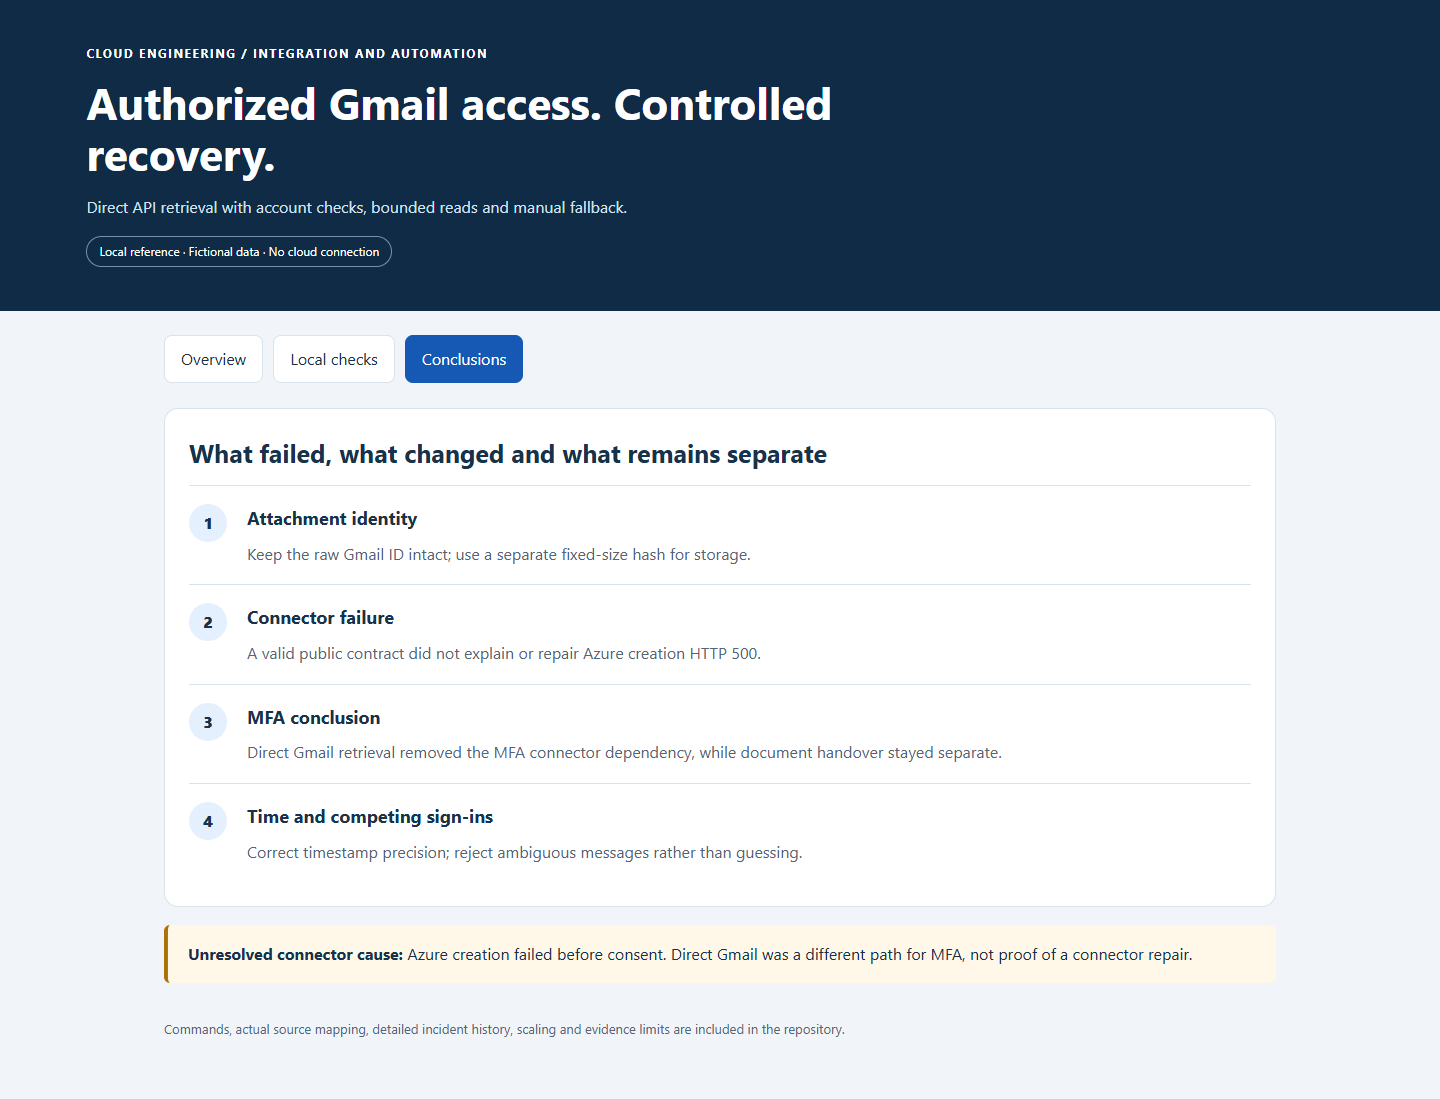
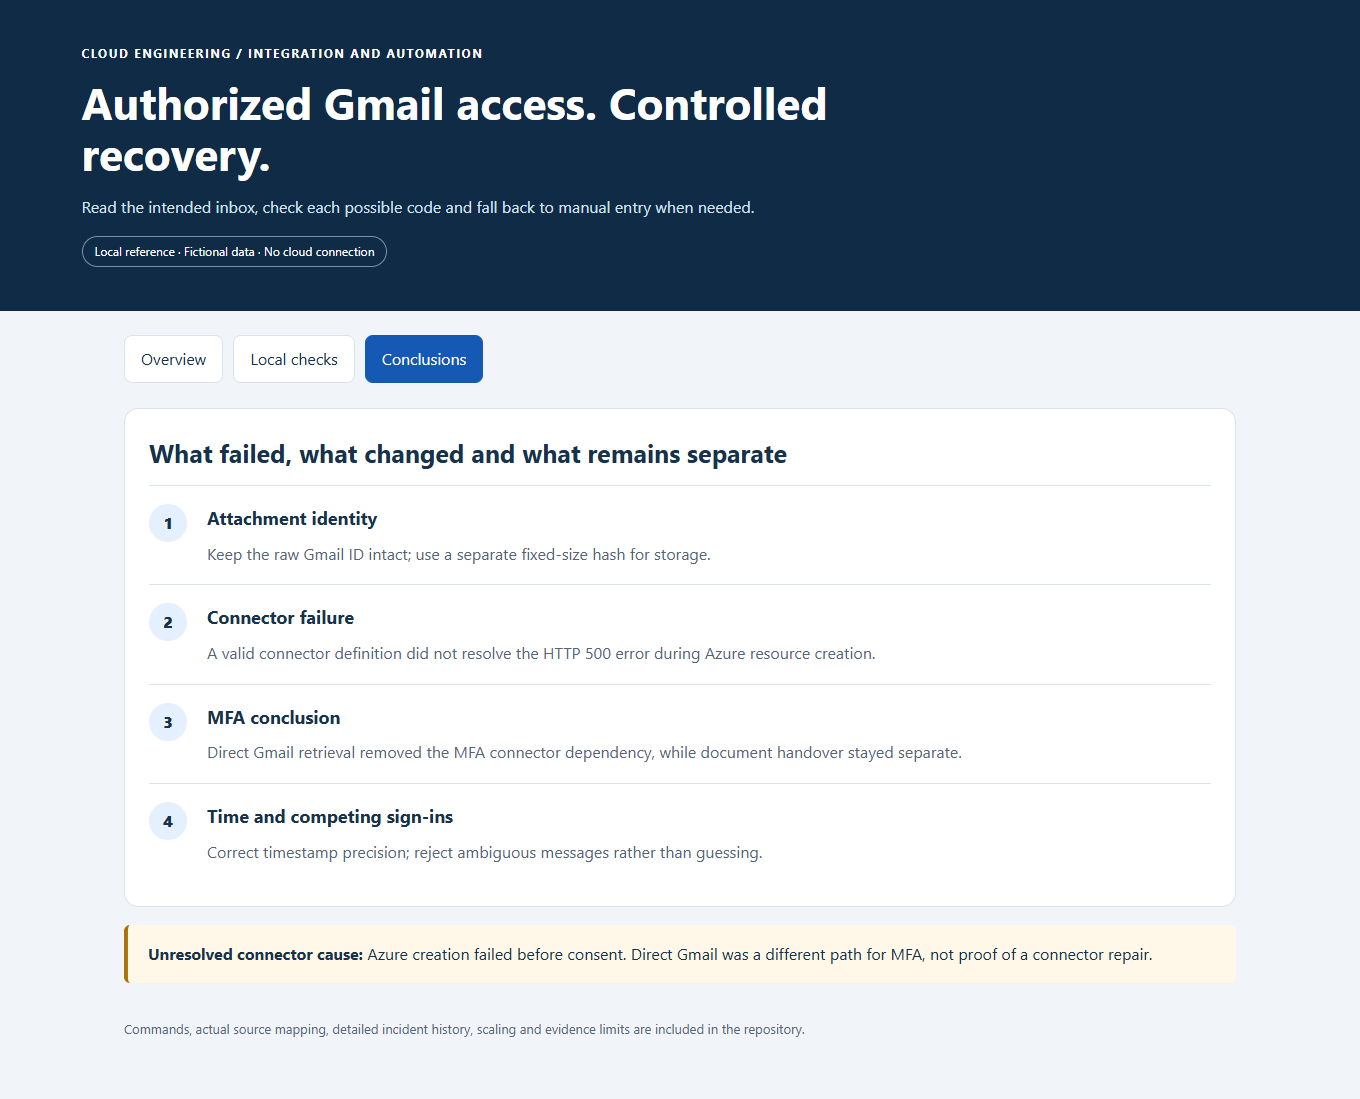
Simplify supporting guides and align preview text and screenshots

diff --git a/preview/index.html b/preview/index.html
@@ -1,10 +1,10 @@
 <!doctype html><html lang="en"><head><meta charset="utf-8"><meta name="viewport" content="width=device-width,initial-scale=1"><title>Authorized Gmail access. Controlled recovery.</title><style>
 :root{color-scheme:light;--navy:#102b46;--ink:#17324a;--muted:#536576;--line:#d8e3eb;--blue:#1559b4;--teal:#086b5c}*{box-sizing:border-box}body{margin:0;background:#f1f5f9;color:var(--ink);font:16px/1.6 system-ui,sans-serif}header{background:var(--navy);color:white;padding:44px max(6vw,20px)}header p{max-width:780px;color:#d3e3f2}h1{font-size:clamp(29px,4vw,44px);line-height:1.15;max-width:850px;margin:14px 0}h2{font-size:25px;margin:0 0 12px}h3{font-size:18px;margin:0 0 8px}.eyebrow{text-transform:uppercase;letter-spacing:.13em;font-size:12px;font-weight:750}.pill{border:1px solid #7791a8;border-radius:20px;padding:5px 12px;font-size:12px;display:inline-block}main{max-width:1160px;margin:auto;padding:24px}nav{display:flex;gap:10px;flex-wrap:wrap;margin-bottom:25px}button{font:inherit;cursor:pointer;border:1px solid var(--line);background:white;color:var(--ink);border-radius:8px;padding:10px 16px}button[aria-selected=true]{background:var(--blue);color:white;border-color:var(--blue)}button:focus-visible{outline:3px solid #c98913;outline-offset:3px}.grid{display:grid;grid-template-columns:repeat(3,minmax(0,1fr));gap:18px}.card,.box{background:white;border:1px solid var(--line);border-radius:14px;padding:24px;margin-bottom:18px}.card p{color:var(--muted)}.big{font-size:27px;font-weight:750;color:var(--blue)}.note{padding:16px 20px;border-left:4px solid #ab7208;background:#fff8e8;border-radius:6px;margin:16px 0 24px}.step{display:grid;grid-template-columns:42px 1fr;gap:16px;padding:18px 0;border-top:1px solid var(--line)}.number{background:#e5f0ff;border-radius:50%;width:38px;height:38px;display:grid;place-items:center;font-weight:800}.step p{margin:0;color:var(--muted)}.table-wrap{overflow:auto}table{border-collapse:collapse;width:100%;text-align:left}th,td{border-bottom:1px solid var(--line);padding:13px 10px;vertical-align:top}th{font-size:13px;background:#edf3f8}.pass{color:var(--teal);font-weight:750}.blocked{color:#8a3b0a;font-weight:750}code{background:#edf3f8;border-radius:4px;padding:2px 5px;overflow-wrap:anywhere}footer{color:var(--muted);font-size:13px;padding:12px 0 35px}[hidden]{display:none!important}@media(max-width:700px){main{padding:16px}header{padding:30px 20px}.grid{grid-template-columns:1fr}.card,.box{padding:18px}th,td{padding:10px 7px;font-size:14px}}
 </style></head><body>
-    <header><div class="eyebrow">Cloud engineering / Integration and automation</div><h1>Authorized Gmail access. Controlled recovery.</h1><p>Direct API retrieval with account checks, bounded reads and manual fallback.</p><span class="pill">Local reference · Fictional data · No cloud connection</span></header><main>
+    <header><div class="eyebrow">Cloud engineering / Integration and automation</div><h1>Authorized Gmail access. Controlled recovery.</h1><p>Read the intended inbox, check each possible code and fall back to manual entry when needed.</p><span class="pill">Local reference · Fictional data · No cloud connection</span></header><main>
     <nav role="tablist" aria-label="Project sections"><button id="tab-overview" role="tab" aria-controls="overview" aria-selected="true">Overview</button><button id="tab-checks" role="tab" aria-controls="checks" aria-selected="false">Local checks</button><button id="tab-conclusions" role="tab" aria-controls="conclusions" aria-selected="false">Conclusions</button></nav>
-    <section id="overview" role="tabpanel" aria-labelledby="tab-overview"><div class="grid"><article class="card"><div class="big">1</div><p>Store authorization in Key Vault; verify the actual mailbox before reading.</p></article><article class="card"><div class="big">2</div><p>Select a fresh, verified candidate bound to the active request.</p></article><article class="card"><div class="big">3</div><p>Claim once and encrypt the command before worker-owned recovery.</p></article></div><article class="box"><h2>Two related integrations. Different outcomes.</h2><p>The original document path uses Logic Apps, a custom Gmail connector, classification and quarantine. The later MFA attempt encountered connector creation failures and moved to direct Gmail API access.</p><p>Shared OAuth application ancestry does not share mailbox consent, processing history or acceptance. Neither project silently commissions the other.</p></article><div class="note"><strong>Evidence boundary:</strong> Actual selected source and dated conclusions are included. This viewer performs no mailbox reads, code requests or cloud operations.</div></section>
+    <section id="overview" role="tabpanel" aria-labelledby="tab-overview"><div class="grid"><article class="card"><div class="big">1</div><p>Store authorization in Key Vault; verify the actual mailbox before reading.</p></article><article class="card"><div class="big">2</div><p>Select a fresh, verified message that matches the current reconnect attempt.</p></article><article class="card"><div class="big">3</div><p>Use the code once and encrypt it before passing it to the browser worker.</p></article></div><article class="box"><h2>Two related integrations. Different outcomes.</h2><p>The original document path uses Logic Apps, a custom Gmail connector, classification and quarantine. The later MFA attempt encountered connector creation failures and moved to direct Gmail API access.</p><p>Reusing an OAuth application does not share mailbox permission or processing history. Each integration must be authorized and checked separately.</p></article><div class="note"><strong>What this preview shows:</strong> Actual selected source and dated conclusions are included. This viewer performs no mailbox reads, code requests or cloud operations.</div></section>
     <section id="checks" role="tabpanel" aria-labelledby="tab-checks" hidden><div class="box"><h2>Actual rules. Fictional inputs.</h2><p id="scope"></p><div class="table-wrap"><table><thead><tr><th>Scenario</th><th>Decision</th><th>Observed rule output</th></tr></thead><tbody id="results"></tbody></table></div></div><div class="note">A passing local rule does not prove a live OAuth grant, database claim, malware result or completed provider sign-in.</div></section>
-    <section id="conclusions" role="tabpanel" aria-labelledby="tab-conclusions" hidden><div class="box"><h2>What failed, what changed and what remains separate</h2><div class="step"><div class="number">1</div><div><h3>Attachment identity</h3><p>Keep the raw Gmail ID intact; use a separate fixed-size hash for storage.</p></div></div><div class="step"><div class="number">2</div><div><h3>Connector failure</h3><p>A valid public contract did not explain or repair Azure creation HTTP 500.</p></div></div><div class="step"><div class="number">3</div><div><h3>MFA conclusion</h3><p>Direct Gmail retrieval removed the MFA connector dependency, while document handover stayed separate.</p></div></div><div class="step"><div class="number">4</div><div><h3>Time and competing sign-ins</h3><p>Correct timestamp precision; reject ambiguous messages rather than guessing.</p></div></div></div><div class="note"><strong>Unresolved connector cause:</strong> Azure creation failed before consent. Direct Gmail was a different path for MFA, not proof of a connector repair.</div></section>
+    <section id="conclusions" role="tabpanel" aria-labelledby="tab-conclusions" hidden><div class="box"><h2>What failed, what changed and what remains separate</h2><div class="step"><div class="number">1</div><div><h3>Attachment identity</h3><p>Keep the raw Gmail ID intact; use a separate fixed-size hash for storage.</p></div></div><div class="step"><div class="number">2</div><div><h3>Connector failure</h3><p>A valid connector definition did not resolve the HTTP 500 error during Azure resource creation.</p></div></div><div class="step"><div class="number">3</div><div><h3>MFA conclusion</h3><p>Direct Gmail retrieval removed the MFA connector dependency, while document handover stayed separate.</p></div></div><div class="step"><div class="number">4</div><div><h3>Time and competing sign-ins</h3><p>Correct timestamp precision; reject ambiguous messages rather than guessing.</p></div></div></div><div class="note"><strong>Unresolved connector cause:</strong> Azure creation failed before consent. Direct Gmail was a different path for MFA, not proof of a connector repair.</div></section>
     <footer>Commands, actual source mapping, detailed incident history, scaling and evidence limits are included in the repository.</footer></main>
     <script>const tabs=[...document.querySelectorAll('[role=tab]')];function select(tab){for(const t of tabs){t.setAttribute('aria-selected',String(t===tab));document.getElementById(t.getAttribute('aria-controls')).hidden=t!==tab}}for(const tab of tabs){tab.addEventListener('click',()=>select(tab));tab.addEventListener('keydown',e=>{if(['ArrowLeft','ArrowRight'].includes(e.key)){e.preventDefault();const next=tabs[(tabs.indexOf(tab)+(e.key==='ArrowRight'?1:-1)+tabs.length)%tabs.length];select(next);next.focus()}})}fetch('/data.json').then(r=>{if(!r.ok)throw Error('Reference data could not be loaded');return r.json()}).then(data=>{document.getElementById('scope').textContent=data.scope;for(const values of data.results){const tr=document.createElement('tr');for(const value of values){const td=document.createElement('td');td.textContent=value;tr.append(td)}document.getElementById('results').append(tr)}}).catch(e=>{const p=document.createElement('p');p.setAttribute('role','alert');p.textContent=e.message;document.querySelector('main').prepend(p)});</script></body></html>

diff --git a/docs/IMPLEMENTATION.md b/docs/IMPLEMENTATION.md
@@ -14,9 +14,9 @@ The complete reference reads a versioned authorization bundle from Key Vault thr
 
 A Google external app left in Testing can have short-lived refresh authorization for Gmail scopes. The original setup moved to In production after completing required branding, then renewed consent. Publishing status is not a substitute for verification, user consent, account checks or organization policy. Confirm applicable Google requirements before commissioning a new app.
 
-## Bounded transport
+## Limits on Gmail requests
 
-Only HTTPS requests to `oauth2.googleapis.com` and `gmail.googleapis.com` are allowed, without alternate ports or URL credentials. Redirects are rejected. HTTP bodies are bounded before JSON parsing, and abort signals carry deadlines. Errors become limited categories such as authorization, throttled or transport; raw provider messages and tokens are not returned as diagnostics.
+Only HTTPS requests to `oauth2.googleapis.com` and `gmail.googleapis.com` are allowed, without alternate ports or URL credentials. Redirects are rejected. Response size is limited before parsing, and each request has a time limit. Errors become limited categories such as authorization, throttled or transport; raw provider messages and tokens are not returned as diagnostics.
 
 The mailbox planner limits each lookup to its request, challenge, send generation, credential version and verified profile. It bounds enumeration to five pages and twenty messages and requires complete discovery before selection. Those limits belong to MFA lookup, not the document-ingestion Logic App's different pagination limits.
 
@@ -26,11 +26,11 @@ The full raw-message verifier checks cryptographic sender evidence, required sig
 
 Multiple eligible messages remain ambiguous, including messages containing the same code. A regular browser sign-in can generate a competing message without an application request ID. The original owner confirmed one provider account per inbox; that does not eliminate overlapping challenges from different browsers.
 
-The full SQL store rechecks the lease, request/challenge/generation, credential and command slot in an atomic transaction. It records a keyed message hash and encrypted command, not plaintext email/code. The worker must verify protected access and persist its new session before Ready. A reused valid session can succeed without a fresh email claim; it is not proof of a new challenge.
+Before saving a command, the database rechecks request ownership, the current challenge, the send attempt, the credential and whether a command is already present. These checks and the save happen in one transaction. It records a keyed message hash and encrypted command, not plaintext email/code. The worker must verify protected access and persist its new session before Ready. A reused valid session can succeed without a fresh email claim; it is not proof of a new challenge.
 
 ## Timestamp precision repair
 
-Gmail can report an arrival at whole-second precision while confirmed Send time includes milliseconds. The repaired comparison allows only the exact second bucket containing Send. An older precise timestamp, previous second, future time or expired request is still rejected by the surrounding checks. This is a precision correction, not a general grace period.
+Gmail can report an arrival at whole-second precision while confirmed Send time includes milliseconds. The corrected comparison accepts an arrival rounded to the same second as the confirmed Send time. An older precise timestamp, previous second, future time or expired request is still rejected by the surrounding checks. This is a precision correction, not a general grace period.
 
 ## Code boundaries
 

diff --git a/docs/ISSUES-AND-CONCLUSIONS.md b/docs/ISSUES-AND-CONCLUSIONS.md
@@ -5,11 +5,11 @@ These are recorded implementation lessons, not a fresh production investigation.
 | Stage | Evidence | Conclusion |
 | --- | --- | --- |
 | Original document ingestion | Long Gmail attachment IDs exceeded a legacy 200-character assumption | Preserve the complete opaque ID; use a separate domain-separated persistence hash |
-| Historical run inspection | Some successful Response actions did not expose the expected retained output surface | Use the available system records and a controlled read of the needed source metadata; do not invent a missing output link |
+| Historical run inspection | Some successful Response actions had no retrievable saved output | Use the available system records and a controlled read of the needed source metadata; do not invent a missing output link |
 | Replacement polling review | A rolling `after:` query could move between pages | Capture one query per enumeration; retain full-pagination failure behavior |
-| Replacement document connector | Azure connector creation returned InternalServerError before OAuth | Replacement commissioning remained blocked; no mailbox migration or handover was proved |
+| Replacement document connector | Azure connector creation returned InternalServerError before OAuth | The replacement could not be put into service; mailbox migration and a complete handover were not verified |
 | Later provider MFA connector attempt, October 21 | Public OpenAPI validation passed, but connector creation still returned repeated HTTP 500 and timed out | Validation was necessary but not sufficient; the service's underlying root cause remained unknown |
-| Support attempt | HTTP 202 was followed by Failed / InvalidSupportPlan and no case readback | An accepted asynchronous submission was not an opened support ticket |
+| Support attempt | The submission was initially accepted, then failed with InvalidSupportPlan; no opened case was confirmed | An accepted asynchronous submission was not an opened support ticket |
 | MFA implementation conclusion | Approved direct Gmail API access avoided connector creation; authorization stayed protected in Key Vault | Direct retrieval became the MFA path; it did not fix the document connector |
 | OAuth lifecycle | Testing status and missing branding initially prevented a durable production-mode setup | Complete required branding, select the intended publishing status and renew consent; do not confuse this with the pre-OAuth HTTP 500 |
 | Recovery timing, October 22–23 | A real arrival could be rounded to the same second as millisecond Send time and be rejected as too old | Share one precise freshness comparison before verification and final selection; keep older/ambiguous messages rejected |
@@ -29,4 +29,4 @@ Confirm the exact resource, failure stage, supported contract and actual Azure s
 
 ## Before recovering a processing gap
 
-Establish the last verified complete boundary, stop competing producers and reconcile in-flight work. Plan a bounded fixed-window discovery and preserve the raw provider IDs and destination ledger. Do not restart the shelved historical backfill automatically. Preserving a receipt matters more than replaying an operation to obtain a cleaner test result.
+Find the last time range confirmed fully processed, stop overlapping ingestion jobs and check unfinished work. Plan a recovery scan for a fixed time range, keeping the original provider IDs and destination processing records. Do not restart the shelved historical backfill automatically. Keep the original operation record. Do not repeat a business operation just to obtain a cleaner test result.

diff --git a/docs/OPERATIONS-AND-SCALING.md b/docs/OPERATIONS-AND-SCALING.md
@@ -6,7 +6,7 @@
 | --- | --- |
 | Configuration | Check protected bundle shape, expected mailbox, profile and credential binding without printing values |
 | Authorization | Check owner consent, token lifecycle, scope, actual account and cryptographic sender verification |
-| Throttled / transport | Respect provider limits; check bounded request results rather than starting a resend loop |
+| Throttled / transport | Respect provider limits; check the results from the limited lookup rather than starting a resend loop |
 | No candidate | Confirm the email reached the authorized inbox inside the request window; do not confuse this with a malformed response |
 | Ambiguous | More than one eligible message; check competing browser sign-ins and use manual recovery |
 | Expired | Request, worker lease or token deadline no longer permits submission; do not revive an old code |
@@ -18,9 +18,9 @@ Preserve manual entry as a fallback. A failed/cancelled reconnect with the same 
 
 The recorded design uses one provider account per authorized inbox and avoids overlapping challenges. Adding more employees does not necessarily add more provider accounts. Measure lookup rate, enumeration time, quota responses, stale/ambiguous candidates, session reuse and manual fallback frequency before increasing concurrency.
 
-Multiple provider accounts require explicit mailbox/profile bindings, isolated request state and reviewed secret access. Shared Google OAuth ancestry does not share user grants. Do not widen a single inbox search and infer account ownership from a code or display name.
+Multiple provider accounts require explicit mailbox/profile bindings, isolated request state and reviewed secret access. Using the same Google OAuth application does not share a user's mailbox permission. Do not widen a single inbox search and infer account ownership from a code or display name.
 
-API instances may scale independently, but SQL leases and atomic claims must keep one active owner and prevent duplicate commands. A Key Vault cache must still respect version changes and revocation; the current reference checks version again before submission. Local helpers do not prove cross-instance races.
+API instances may scale independently, but database request ownership and one-time message claims must prevent duplicate commands. A Key Vault cache must still respect version changes and revocation; the current reference checks version again before submission. The local helper tests do not establish correct behavior when multiple API instances compete for the same request.
 
 ## Strengths and tradeoffs
 

diff --git a/docs/VALIDATION.md b/docs/VALIDATION.md
@@ -19,3 +19,14 @@ The document tests use three original test files against the extracted contract,
 Historical records preserve earlier outcomes and later blocked/deferred work separately. No real message or attachment, OAuth bundle, verification code, callback URL or employee record is included. No cloud start, consent, mailbox query, backfill, SQL migration, message send or deployment is performed for publication.
 
 The selected Node tests are not a complete application build or TypeScript type check. Fake responses do not prove live OAuth/DKIM/DNS, SQL transaction races or provider sign-in. The GitHub workflow is manual-only and is not dispatched.
+
+## Wording and preview review - November 6, 2026
+
+The supporting guides and preview labels received another plain-language review.
+Screenshots were refreshed from the local fictional viewer. Desktop tabs loaded
+without browser errors, and the 390-pixel mobile view had no horizontal page
+overflow. External browser requests were blocked. HTML structure and embedded
+scripts remained unchanged; this pass changed text and screenshots only.
+
+These browser checks did not repeat cloud acceptance or the earlier code tests.
+No Azure service, Gmail account, provider session or hosted Actions run was used.
